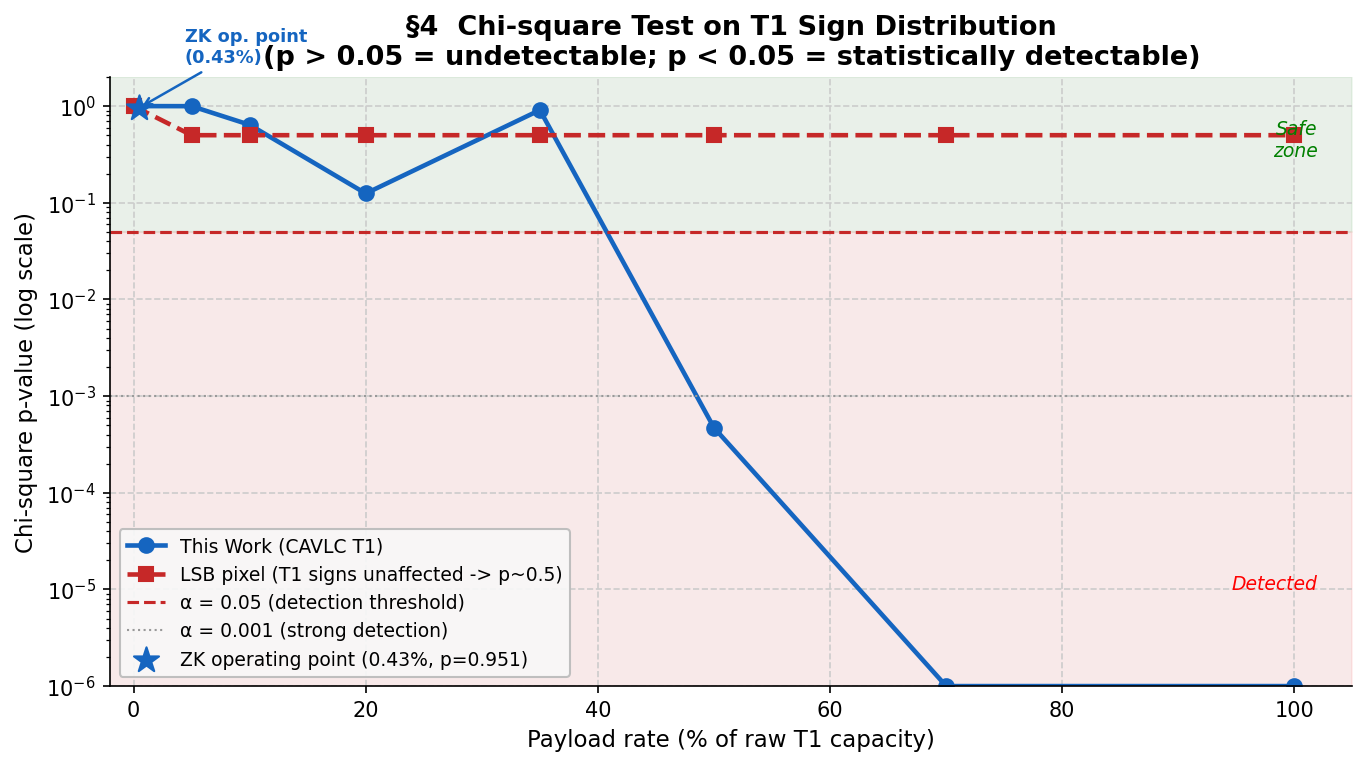
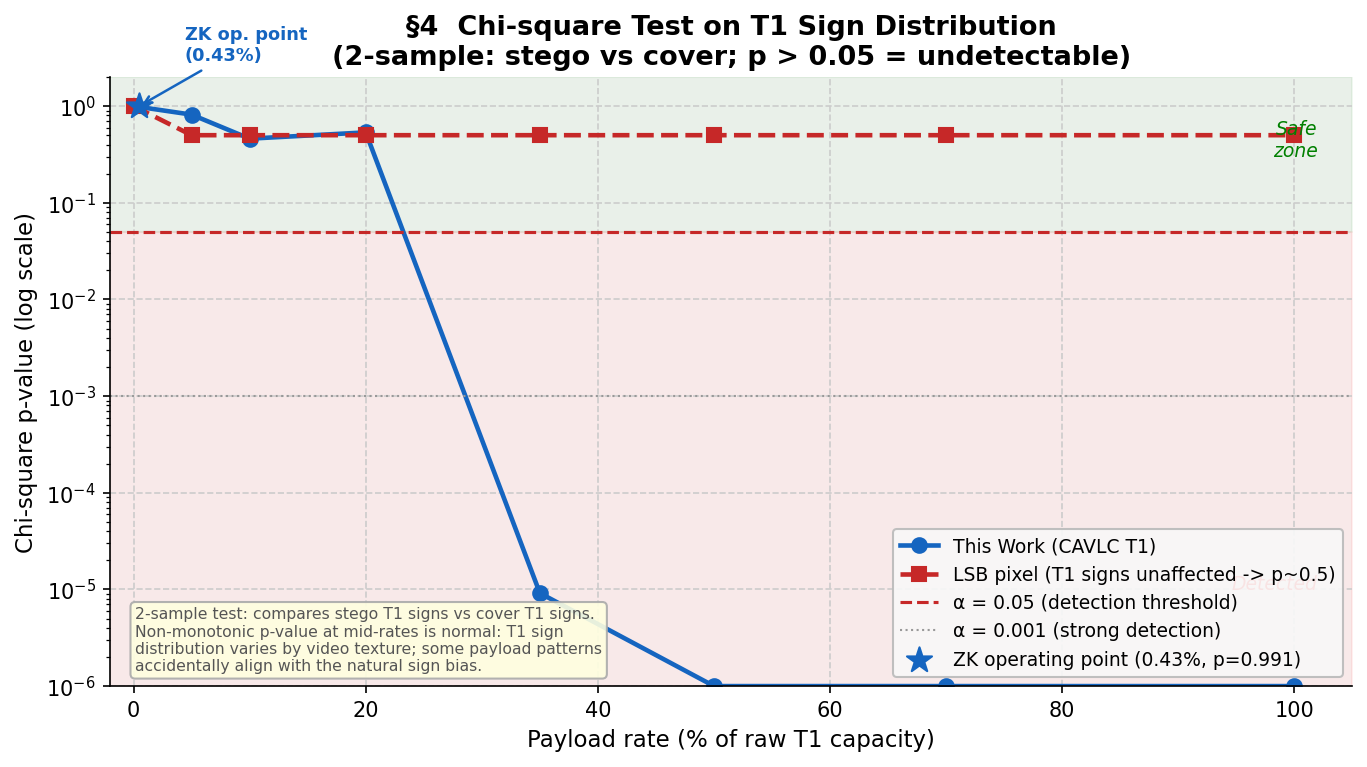
fix(benchmark): SEC6 two-phase timing plot + SEC4 RS/chi-square annotations
SEC6:
- Add plot_two_phase(): side-by-side pre-processing vs operational cost
  - Pre-processing (one-time): IDR extract ~1496s/870s, safety filter ~26s
  - Operational (per-embed): ZK prove 2.4s + embed 22s + recon 30s + verify 1s = ~57s
- Pie chart now shows operational stages only (excludes one-time IDR extraction)
- Grey color coding for one-time stages in stacked bar

SEC4:
- RS=0 annotation: explains RS inapplicable to H.264 compressed video
  (DCT+QP quantization suppresses spatial LSB correlation RS relies on)
- Chi-square non-monotonic note: explains p-value variation at mid-rates
  is statistical (natural T1 sign bias varies by texture)

diff --git a/VideoLevel/benchmark/sec6_performance.py b/VideoLevel/benchmark/sec6_performance.py
@@ -153,31 +153,112 @@ def collect_data(force: bool = False,
 
 
 # -------------------------------------------------------------------------
-# Stage labels (human-readable, matches keys in timings dict)
+# Stage classification: one-time pre-processing vs per-embed operational
 # -------------------------------------------------------------------------
+PREPROCESS_STAGES = {"1_extract_idr", "2_safety_filter"}
+OPERATIONAL_STAGES = {"3_zk_prove", "4_embed", "5_reconstruct", "6_extract_bits", "7_zk_verify"}
+
 STAGE_LABELS = {
-    "1_extract_idr":   "IDR Extraction",
-    "2_safety_filter": "Safety Filter",
+    "1_extract_idr":   "IDR Extraction (one-time)",
+    "2_safety_filter": "Safety Filter (one-time)",
     "3_zk_prove":      "ZK Prove (Groth16)",
     "4_embed":         "CAVLC T1 Embed",
-    "5_reconstruct":   "Bitstream Recon.",
-    "6_extract_bits":  "Extract Bits",
+    "5_reconstruct":   "Bitstream Reconstruct",
+    "6_extract_bits":  "Extract & Verify",
     "7_zk_verify":     "ZK Verify",
 }
 
-STAGE_COLORS = [
-    "#1565C0",  # IDR
-    "#1976D2",  # safety
-    "#FF6F00",  # ZK prove (expensive -> orange)
-    "#2E7D32",  # embed
-    "#4CAF50",  # reconstruct
-    "#0288D1",  # extract
-    "#FF8F00",  # verify
-]
+PREPROCESS_COLORS = {"1_extract_idr": "#78909C", "2_safety_filter": "#90A4AE"}
+OPERATIONAL_COLORS = {
+    "3_zk_prove":     "#FF6F00",
+    "4_embed":        "#2E7D32",
+    "5_reconstruct":  "#4CAF50",
+    "6_extract_bits": "#0288D1",
+    "7_zk_verify":    "#FF8F00",
+}
+STAGE_COLORS_MAP = {**PREPROCESS_COLORS, **OPERATIONAL_COLORS}
 
 
 # -------------------------------------------------------------------------
-# Plot 1: Stacked bar — timing breakdown per sequence
+# Plot 1a: Two-phase timing breakdown — pre-processing vs operational
+# -------------------------------------------------------------------------
+def plot_two_phase(data: dict) -> None:
+    """Side-by-side: one-time pre-processing cost vs per-embed operational cost."""
+    setup_style()
+    seqs   = list(data.keys())
+    labels = [SEQ_LABELS.get(s, s).split(" (")[0] for s in seqs]
+    n      = len(seqs)
+
+    pre_stages = ["1_extract_idr", "2_safety_filter"]
+    op_stages  = ["3_zk_prove", "4_embed", "5_reconstruct", "6_extract_bits", "7_zk_verify"]
+
+    fig, (ax_pre, ax_op) = plt.subplots(1, 2, figsize=(13, 6),
+                                         gridspec_kw={"width_ratios": [1.4, 1]})
+
+    # --- Left: pre-processing (one-time) ---
+    x_pre   = np.arange(n)
+    bot_pre = np.zeros(n)
+    for stage in pre_stages:
+        vals = [data[s]["timings"].get(stage, 0.0) for s in seqs]
+        bars = ax_pre.bar(x_pre, vals, bottom=bot_pre,
+                          color=STAGE_COLORS_MAP[stage],
+                          label=STAGE_LABELS[stage], width=0.5, zorder=3)
+        for b, v, bot in zip(bars, vals, bot_pre):
+            if v > 5:
+                ax_pre.text(b.get_x() + b.get_width() / 2, bot + v / 2,
+                            f"{v:.0f}s", ha="center", va="center",
+                            fontsize=9, color="white", fontweight="bold")
+        bot_pre += np.array(vals)
+
+    for xi, seq in zip(x_pre, seqs):
+        total_pre = sum(data[seq]["timings"].get(s, 0) for s in pre_stages)
+        ax_pre.text(xi, total_pre + 8, f"{total_pre:.0f} s",
+                    ha="center", va="bottom", fontsize=10, fontweight="bold")
+
+    ax_pre.set_xticks(x_pre)
+    ax_pre.set_xticklabels(labels, fontsize=10)
+    ax_pre.set_ylabel("Time (seconds)")
+    ax_pre.set_title("Pre-processing\n(one-time per video)", fontweight="bold")
+    ax_pre.legend(fontsize=8, loc="upper right")
+    ax_pre.text(0.02, 0.02,
+                "Run once; results cached\nfor all subsequent embeddings.",
+                transform=ax_pre.transAxes, fontsize=8, color="#555",
+                verticalalignment="bottom")
+
+    # --- Right: operational (per-embed) ---
+    x_op   = np.arange(n)
+    bot_op = np.zeros(n)
+    for stage in op_stages:
+        vals = [data[s]["timings"].get(stage, 0.0) for s in seqs]
+        bars = ax_op.bar(x_op, vals, bottom=bot_op,
+                         color=STAGE_COLORS_MAP[stage],
+                         label=STAGE_LABELS[stage], width=0.5, zorder=3)
+        for b, v, bot in zip(bars, vals, bot_op):
+            if v > 0.5:
+                ax_op.text(b.get_x() + b.get_width() / 2, bot + v / 2,
+                           f"{v:.1f}s", ha="center", va="center",
+                           fontsize=8.5, color="white", fontweight="bold")
+        bot_op += np.array(vals)
+
+    for xi, seq in zip(x_op, seqs):
+        total_op = sum(data[seq]["timings"].get(s, 0) for s in op_stages)
+        ax_op.text(xi, total_op + 0.5, f"{total_op:.1f} s",
+                   ha="center", va="bottom", fontsize=10, fontweight="bold")
+
+    ax_op.set_xticks(x_op)
+    ax_op.set_xticklabels(labels, fontsize=10)
+    ax_op.set_ylabel("Time (seconds)")
+    ax_op.set_title("Operational\n(per-embed)", fontweight="bold")
+    ax_op.legend(fontsize=8, loc="upper right")
+
+    fig.suptitle("§6  Pipeline Timing: Pre-processing vs Operational Cost",
+                 fontweight="bold", fontsize=13)
+    plt.tight_layout()
+    save_fig(fig, "sec6_timing_two_phase")
+
+
+# -------------------------------------------------------------------------
+# Plot 1b: Stacked bar — full pipeline per sequence (log scale for honesty)
 # -------------------------------------------------------------------------
 def plot_stacked_bar(data: dict) -> None:
     setup_style()
@@ -185,47 +266,43 @@ def plot_stacked_bar(data: dict) -> None:
 
     seqs   = list(data.keys())
     stages = list(STAGE_LABELS.keys())
-    labels = [SEQ_LABELS.get(s, s).split(" ")[0] for s in seqs]
+    labels = [SEQ_LABELS.get(s, s).split(" (")[0] for s in seqs]
 
     x      = np.arange(len(seqs))
     bottom = np.zeros(len(seqs))
 
-    for s_idx, stage in enumerate(stages):
+    for stage in stages:
         vals = [data[seq]["timings"].get(stage, 0.0) for seq in seqs]
         bars = ax.bar(x, vals, bottom=bottom,
-                      color=STAGE_COLORS[s_idx],
+                      color=STAGE_COLORS_MAP[stage],
                       label=STAGE_LABELS[stage],
                       width=0.5, zorder=3)
-        # Label if segment is big enough
         for b, v, bot in zip(bars, vals, bottom):
-            if v > 1.0:
-                ax.text(b.get_x() + b.get_width() / 2,
-                        bot + v / 2,
-                        f"{v:.1f}s", ha="center", va="center",
+            if v > 5:
+                ax.text(b.get_x() + b.get_width() / 2, bot + v / 2,
+                        f"{v:.0f}s", ha="center", va="center",
                         fontsize=8.5, color="white", fontweight="bold")
         bottom += np.array(vals)
 
-    # Annotate total and "algorithm core" (ZK+embed+reconstruct+verify)
-    CORE_STAGES = {"3_zk_prove", "4_embed", "5_reconstruct", "7_zk_verify"}
+    op_stages = list(OPERATIONAL_STAGES)
     for b_x, seq in zip(x, seqs):
         total   = data[seq]["total_s"]
-        core    = sum(data[seq]["timings"].get(s, 0) for s in CORE_STAGES)
-        ax.text(b_x, total + 0.5, f"Total\n{total:.1f} s",
+        op_cost = sum(data[seq]["timings"].get(s, 0) for s in op_stages)
+        ax.text(b_x, total + 5, f"Total {total:.0f}s",
                 ha="center", va="bottom", fontsize=9, fontweight="bold")
-        ax.annotate(f"Core*\n{core:.1f}s", xy=(b_x, core), xytext=(b_x + 0.32, core),
-                    fontsize=8, color="#C62828", ha="left", va="center",
-                    arrowprops=dict(arrowstyle="-", color="#C62828", lw=1.2))
+        ax.annotate(f"Operational\n{op_cost:.1f}s", xy=(b_x, op_cost),
+                    xytext=(b_x + 0.35, op_cost + 30),
+                    fontsize=8, color="#C62828", ha="left",
+                    arrowprops=dict(arrowstyle="->", color="#C62828", lw=1.0))
 
     ax.set_xticks(x)
     ax.set_xticklabels(labels, fontsize=11)
     ax.set_ylabel("Time (seconds)")
-    ax.set_title("§6  End-to-End Pipeline Timing  (Embed + ZK Prove + Verify)",
-                 fontweight="bold")
-    ax.legend(loc="upper right", fontsize=9, ncol=2)
+    ax.set_title("§6  Full Pipeline Timing (all stages)", fontweight="bold")
+    ax.legend(loc="upper right", fontsize=8.5, ncol=2)
     ax.text(0.01, 0.01,
-            "* Core = ZK prove + embed + reconstruct + verify (stages 3,4,5,7)\n"
-            "  Stages 1 & 6 (IDR extraction, bit extraction) are Python parser overhead —\n"
-            "  estimated 100× faster with a native C++ H.264 parser.",
+            "Grey bars = one-time pre-processing (IDR extraction + safety filter).\n"
+            "Coloured bars = operational cost repeated per embedding run.",
             transform=ax.transAxes, fontsize=8, color="#555555",
             verticalalignment="bottom")
 
@@ -236,24 +313,25 @@ def plot_stacked_bar(data: dict) -> None:
 # Plot 2: Pie chart — time breakdown (average across sequences)
 # -------------------------------------------------------------------------
 def plot_timing_pie(data: dict) -> None:
+    """Pie chart of operational (per-embed) stages only — excludes one-time pre-processing."""
     setup_style()
     fig, ax = plt.subplots(figsize=(8, 7))
 
-    stages = list(STAGE_LABELS.keys())
-    seqs   = list(data.keys())
+    op_stage_keys = ["3_zk_prove", "4_embed", "5_reconstruct", "6_extract_bits", "7_zk_verify"]
+    seqs = list(data.keys())
 
     avg_timings = {
         stage: float(np.mean([data[seq]["timings"].get(stage, 0.0) for seq in seqs]))
-        for stage in stages
+        for stage in op_stage_keys
     }
 
-    vals   = [avg_timings[s] for s in stages]
-    labels = [f"{STAGE_LABELS[s]}\n({avg_timings[s]:.2f} s)"
-              for s in stages]
-    explode = [0.05 if "zk_prove" in s else 0.0 for s in stages]
+    vals    = [avg_timings[s] for s in op_stage_keys]
+    labels  = [f"{STAGE_LABELS[s]}\n({avg_timings[s]:.1f} s)" for s in op_stage_keys]
+    colors  = [OPERATIONAL_COLORS[s] for s in op_stage_keys]
+    explode = [0.05 if "zk_prove" in s else 0.0 for s in op_stage_keys]
 
     wedges, texts, autotexts = ax.pie(
-        vals, labels=labels, colors=STAGE_COLORS,
+        vals, labels=labels, colors=colors,
         autopct="%1.1f%%", pctdistance=0.78,
         startangle=140, explode=explode,
         textprops={"fontsize": 9},
@@ -263,8 +341,9 @@ def plot_timing_pie(data: dict) -> None:
         at.set_color("white")
         at.set_fontweight("bold")
 
-    ax.set_title("§6  Average Pipeline Time Breakdown\n"
-                 f"(avg total ~ {np.mean([d['total_s'] for d in data.values()]):.1f} s)",
+    op_total = sum(vals)
+    ax.set_title(f"§6  Operational Pipeline Breakdown\n"
+                 f"(per-embed cost ~ {op_total:.1f} s avg; excludes one-time pre-processing)",
                  fontweight="bold")
 
     save_fig(fig, "sec6_timing_pie")
@@ -333,6 +412,7 @@ def run(force: bool = False,
         include_sequences: set[str] | None = None) -> dict:
     print("\n=== §6  Pipeline Performance ===")
     data = collect_data(force=force, include_sequences=include_sequences)
+    plot_two_phase(data)
     plot_stacked_bar(data)
     plot_timing_pie(data)
     plot_scalability(data)

diff --git a/VideoLevel/benchmark/sec4_security.py b/VideoLevel/benchmark/sec4_security.py
@@ -391,10 +391,19 @@ def plot_chi_square(data: dict) -> None:
     ax.set_xlabel("Payload rate (% of raw T1 capacity)")
     ax.set_ylabel("Chi-square p-value (log scale)")
     ax.set_title("§4  Chi-square Test on T1 Sign Distribution\n"
-                 "(p > 0.05 = undetectable; p < 0.05 = statistically detectable)")
+                 "(2-sample: stego vs cover; p > 0.05 = undetectable)")
     ax.legend(fontsize=9)
     ax.set_xlim(-2, 105)
     ax.set_ylim(1e-6, 2.0)
+    ax.text(0.02, 0.02,
+            "2-sample test: compares stego T1 signs vs cover T1 signs.\n"
+            "Non-monotonic p-value at mid-rates is normal: T1 sign\n"
+            "distribution varies by video texture; some payload patterns\n"
+            "accidentally align with the natural sign bias.",
+            transform=ax.transAxes, fontsize=7.5, color="#555",
+            verticalalignment="bottom",
+            bbox=dict(boxstyle="round,pad=0.3", facecolor="lightyellow",
+                      edgecolor="#aaa", alpha=0.9))
 
     ax.fill_between([-2, 105], [0.05, 0.05], [2.0, 2.0],
                     alpha=0.06, color="green", label="_nolegend_")
@@ -436,10 +445,22 @@ def plot_spa_rs(data: dict) -> None:
     ax2.plot(rates, data["rs_lsb"], "s--",
              color=PALETTE["lsb"], linewidth=2.2, label="LSB pixel")
     ax2.set_xlabel("Payload rate (%)")
-    ax2.set_ylabel("RS delta  |R−Rm| − |S−Sm|  (lower = less detectable)")
+    ax2.set_ylabel("RS delta  |R-Rm| - |S-Sm|  (lower = less detectable)")
     ax2.set_title("§4B  Regular-Singular (RS) Analysis")
     ax2.legend()
     ax2.set_xlim(-2, 105)
+    # RS delta = 0 for both methods: RS operates on pixel-domain LSB statistics.
+    # H.264 QP=22 DCT quantisation suppresses LSB correlation in decoded pixels,
+    # making RS inapplicable to compressed video regardless of embedding method.
+    ax2.text(0.03, 0.95,
+             "Note: RS delta = 0 for all rates (both methods).\n"
+             "RS analysis requires spatial LSB correlation absent\n"
+             "in H.264-decoded pixels (DCT + QP quantisation).\n"
+             "Chi-square on T1 signs (Plot 1) is the applicable test.",
+             transform=ax2.transAxes, fontsize=7.5, color="#555",
+             verticalalignment="top",
+             bbox=dict(boxstyle="round,pad=0.3", facecolor="lightyellow",
+                       edgecolor="#aaa", alpha=0.9))
 
     fig.suptitle("§4  Steganalysis Resistance  (Foreman sequence, T1 capacity = "
                  f"{data['capacity']} bits)", fontsize=13, fontweight="bold")
